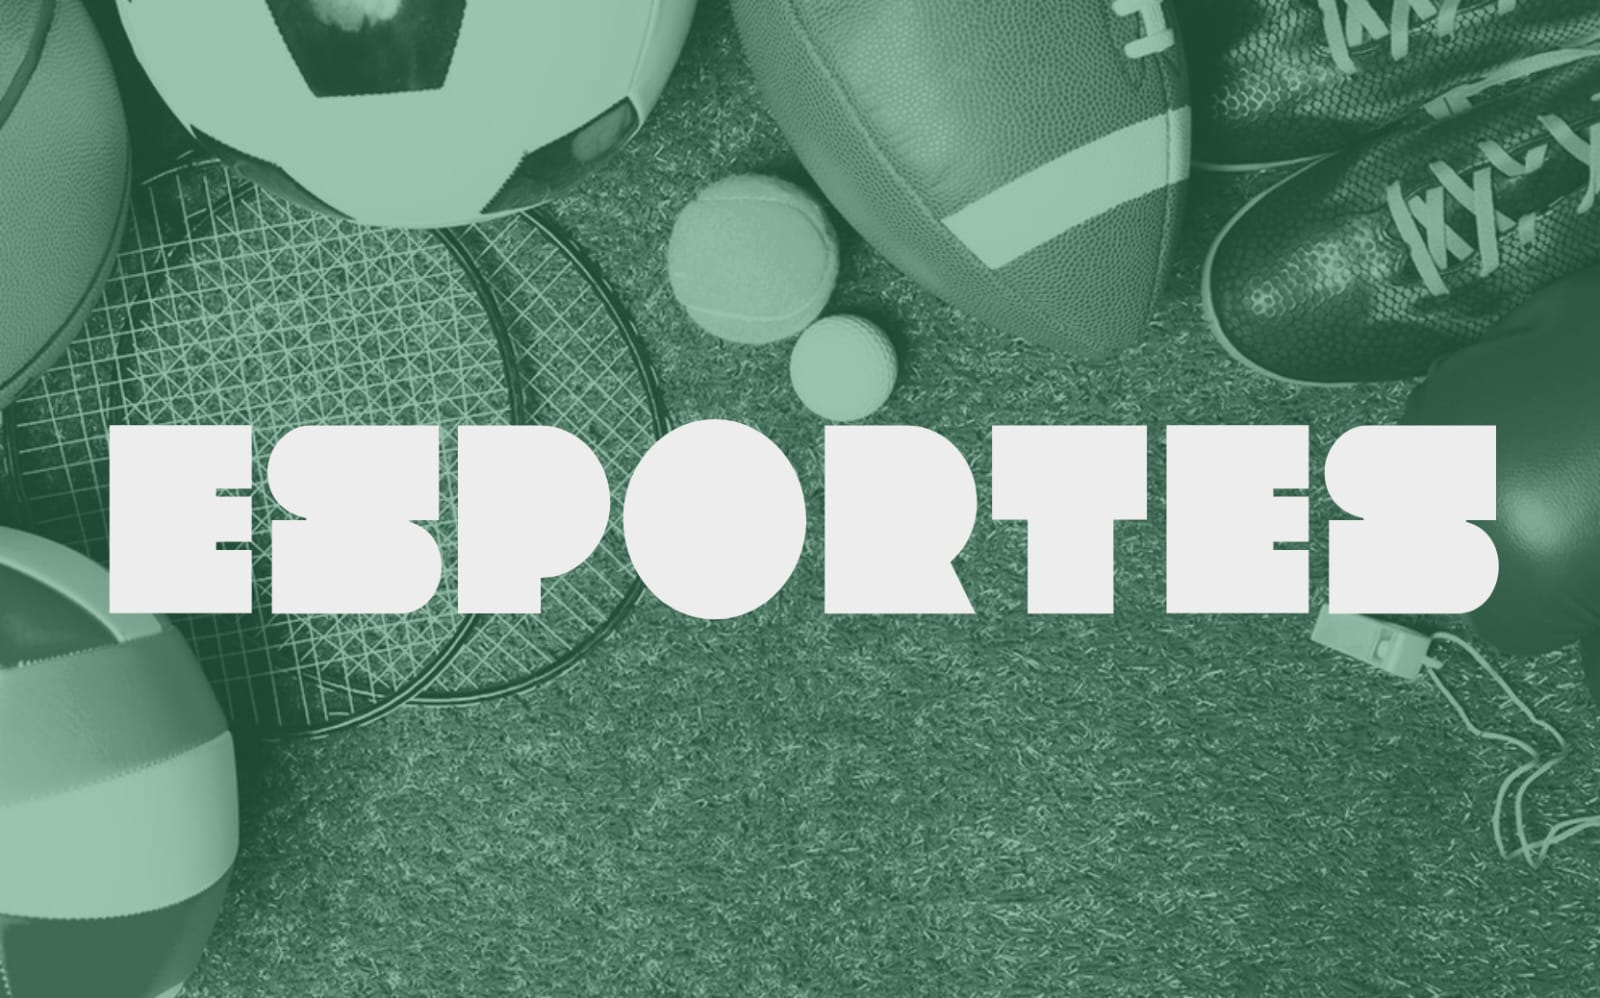
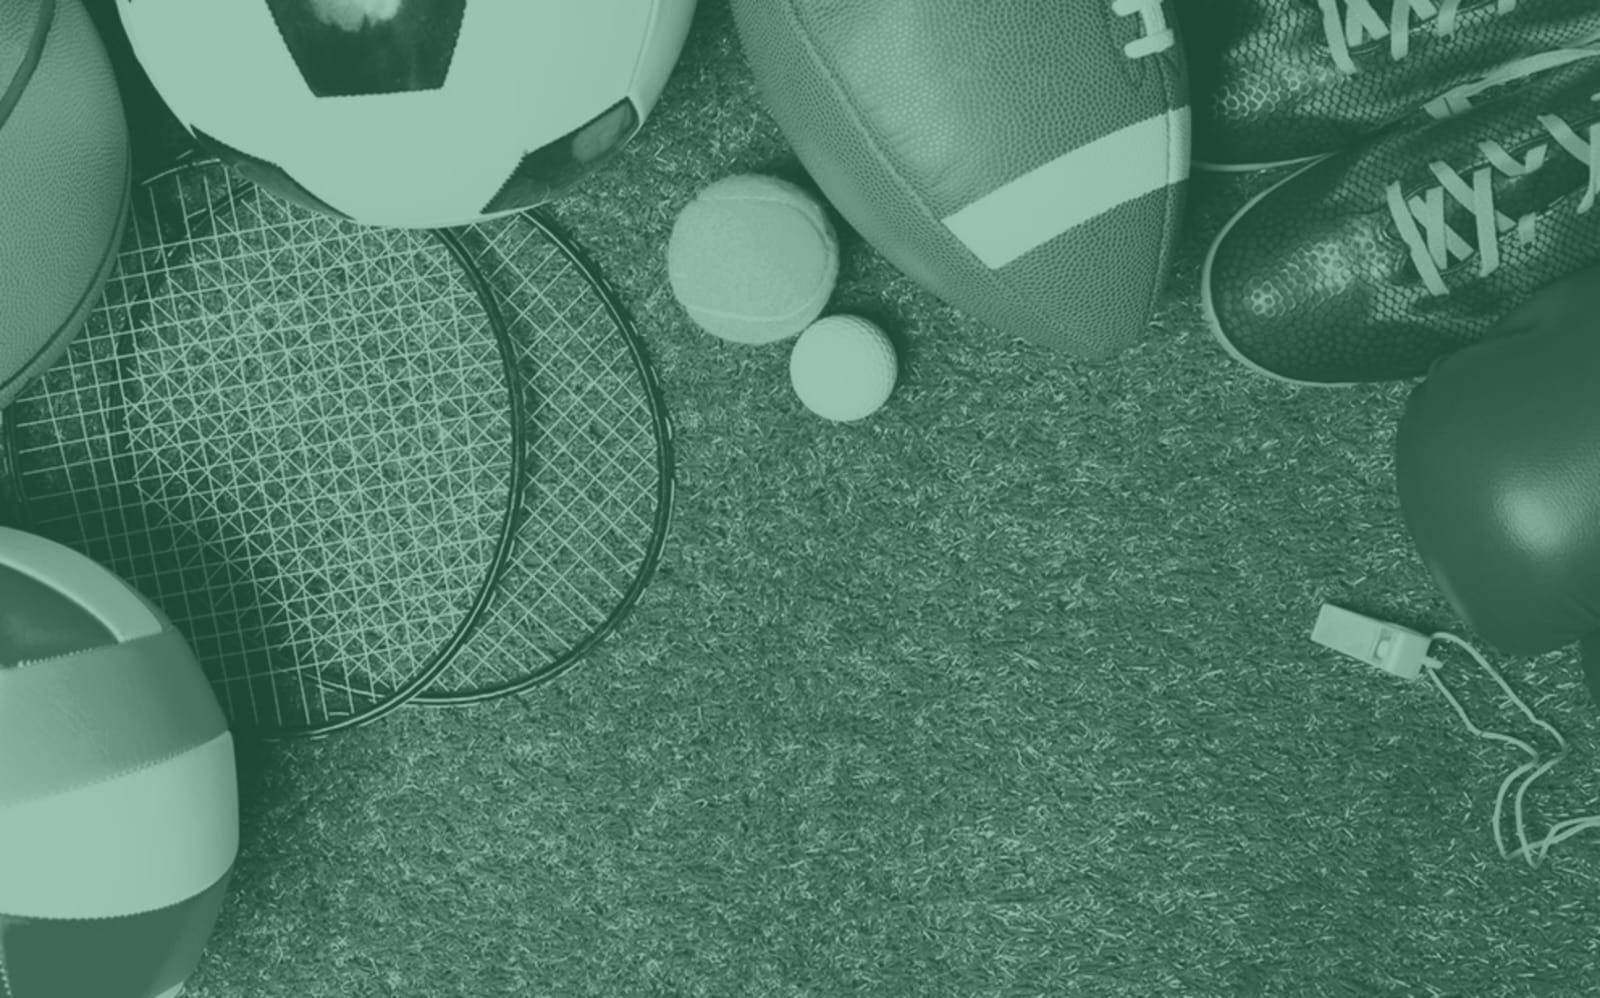
imagens
alteração das imagens

Changed region(s): [[0.0625, 0.4038, 0.9375, 0.6212]]

diff --git a/styles/rodape.css b/styles/rodape.css
@@ -54,7 +54,7 @@
 }
 
 #container-musica {
-    background-image: url("../images/rodape/rodape-musica.jpeg");
+    background-image: url("../images/rodape/rodape-musica.jpg");
     background-repeat: no-repeat;
     background-size: cover;
 }
